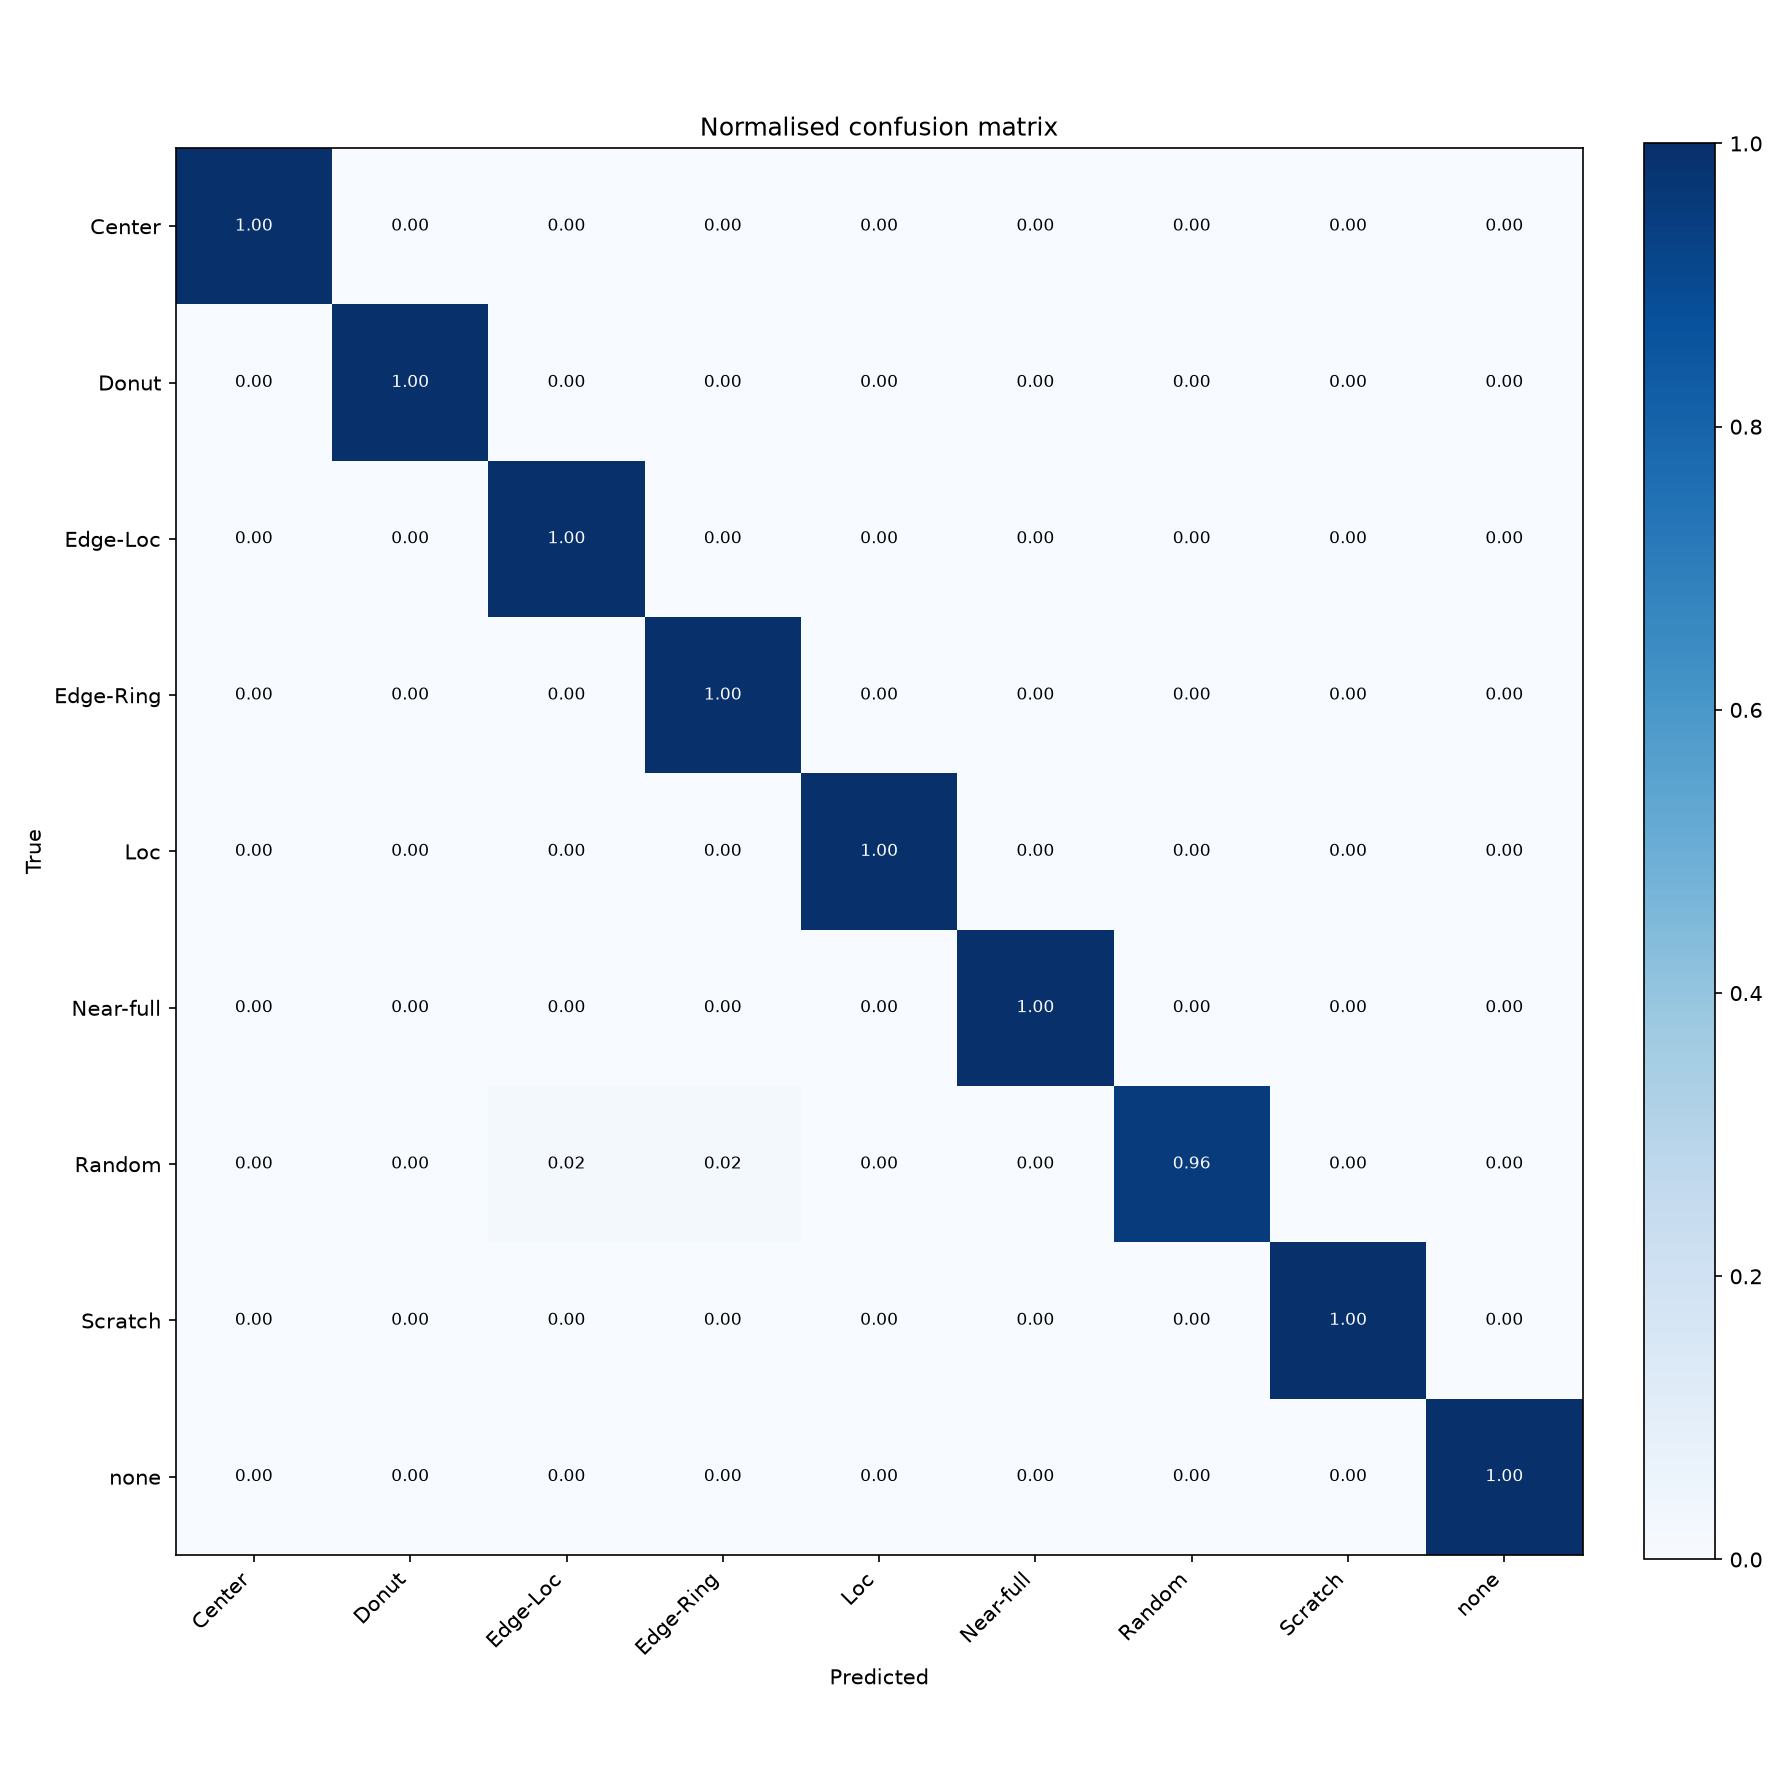
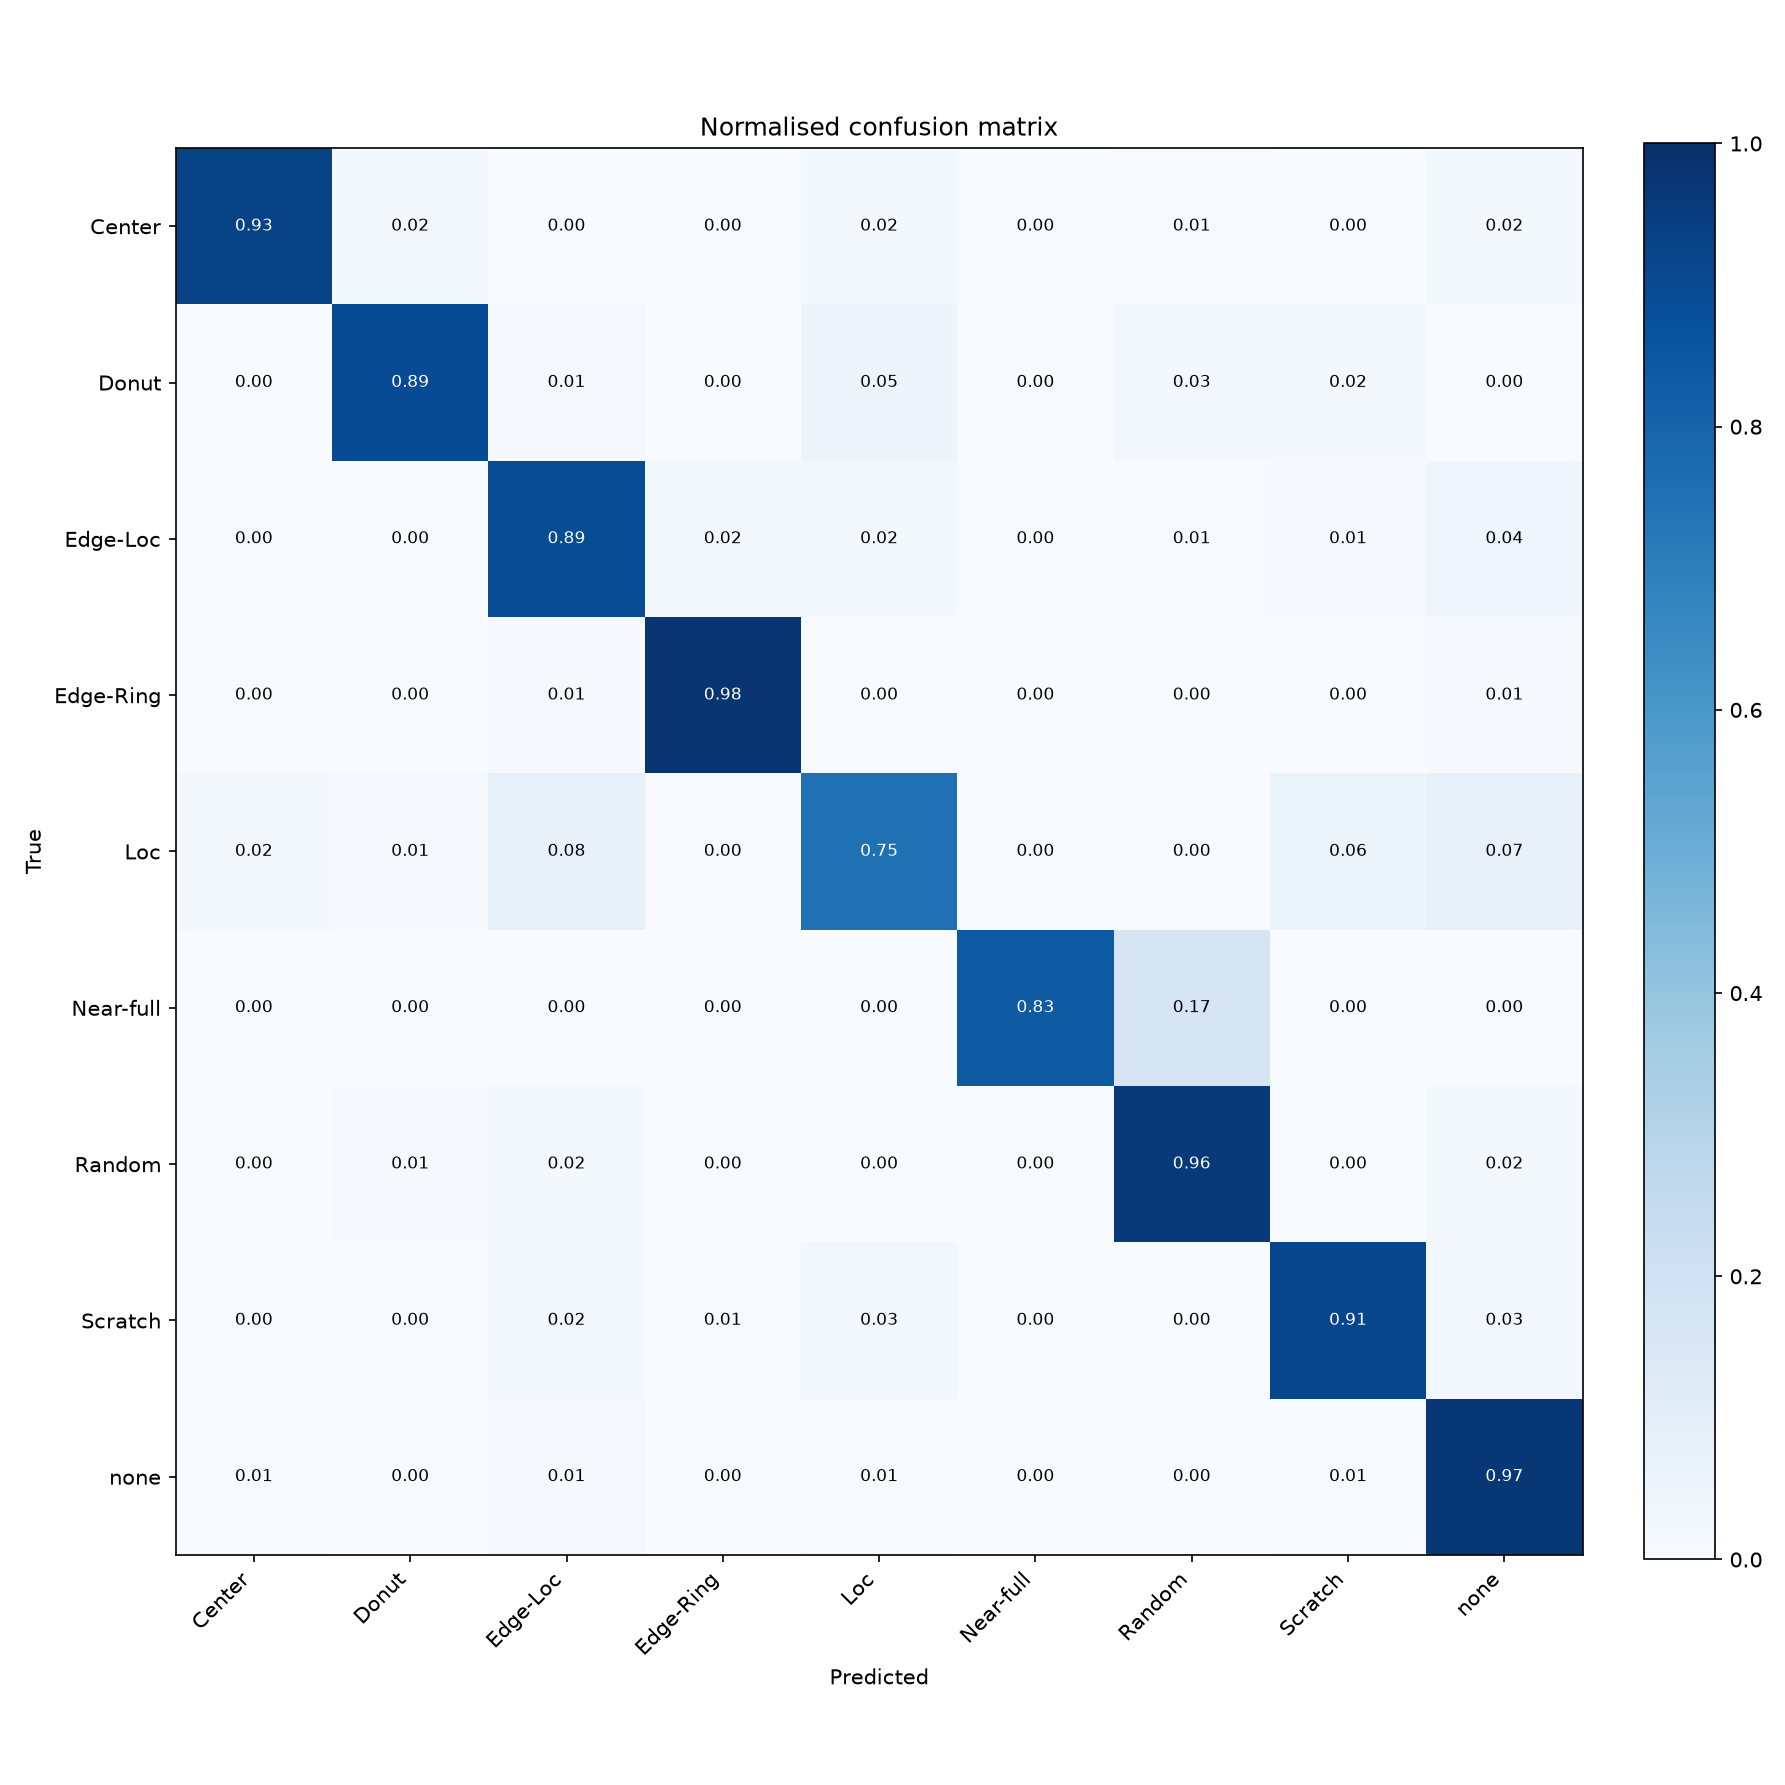
Replace synthetic showcase report/figures with real WM-811K results (F1-macro 0.837, n=172950)

Changed region(s): [[0.0924, 0.0616, 0.3697, 0.3697], [0.4314, 0.4314, 0.7087, 0.6162], [0.7087, 0.6779, 0.8011, 0.8011]]

diff --git a/docs/EXAMPLE_REPORT.md b/docs/EXAMPLE_REPORT.md
@@ -1,19 +1,16 @@
-# Experiment report — wm811k_demo
+# Experiment report — wafer_cnn
 
-_Auto-generated 2026-08-03 18:28:46._
-
-> **Note:** this is an example report generated by `python train.py` on the bundled **synthetic** demo dataset (to illustrate the tooling without the 2 GB download). Run on the real WM-811K to reproduce genuine benchmark numbers.
-
+_Auto-generated 2026-08-04 00:30:24._
 
 ## Run configuration
 
 | Setting | Value |
 | --- | --- |
-| Model | `wafer_cnn` (base_channels=24) |
+| Model | `wafer_cnn` (base_channels=32) |
 | Split strategy | `lot` |
-| Image size | 48 |
+| Image size | 64 |
 | Representation | `onehot` |
-| Epochs | 25 |
+| Epochs | 30 |
 | Optimizer | `adamw` (lr=0.001) |
 | Classes | 9 |
 | Seed | 42 |
@@ -22,25 +19,25 @@ _Auto-generated 2026-08-03 18:28:46._
 
 | Metric | Value |
 | --- | --- |
-| Accuracy | 0.9947 |
-| Balanced accuracy | 0.9952 |
-| Macro-F1 | 0.9947 |
-| Weighted-F1 | 0.9947 |
-| Cohen's κ | 0.9941 |
+| Accuracy | 0.9614 |
+| Balanced accuracy | 0.9019 |
+| Macro-F1 | 0.8370 |
+| Weighted-F1 | 0.9641 |
+| Cohen's κ | 0.8626 |
 
 ## Per-class F1 (test)
 
 | Class | Precision | Recall | F1 | Support |
 | --- | --- | --- | --- | --- |
-| Center | 1.000 | 1.000 | 1.000 | 37 |
-| Donut | 1.000 | 1.000 | 1.000 | 40 |
-| Edge-Loc | 0.976 | 1.000 | 0.988 | 41 |
-| Edge-Ring | 0.973 | 1.000 | 0.986 | 36 |
-| Loc | 1.000 | 1.000 | 1.000 | 51 |
-| Near-full | 1.000 | 1.000 | 1.000 | 45 |
-| Random | 1.000 | 0.957 | 0.978 | 46 |
-| Scratch | 1.000 | 1.000 | 1.000 | 43 |
-| none | 1.000 | 1.000 | 1.000 | 41 |
+| Center | 0.833 | 0.927 | 0.877 | 698 |
+| Donut | 0.805 | 0.892 | 0.847 | 102 |
+| Edge-Loc | 0.680 | 0.889 | 0.771 | 728 |
+| Edge-Ring | 0.979 | 0.979 | 0.979 | 1337 |
+| Loc | 0.674 | 0.754 | 0.711 | 548 |
+| Near-full | 0.909 | 0.833 | 0.870 | 24 |
+| Random | 0.833 | 0.960 | 0.892 | 125 |
+| Scratch | 0.451 | 0.914 | 0.604 | 162 |
+| none | 0.995 | 0.970 | 0.982 | 22100 |
 
 ## Figures
 
